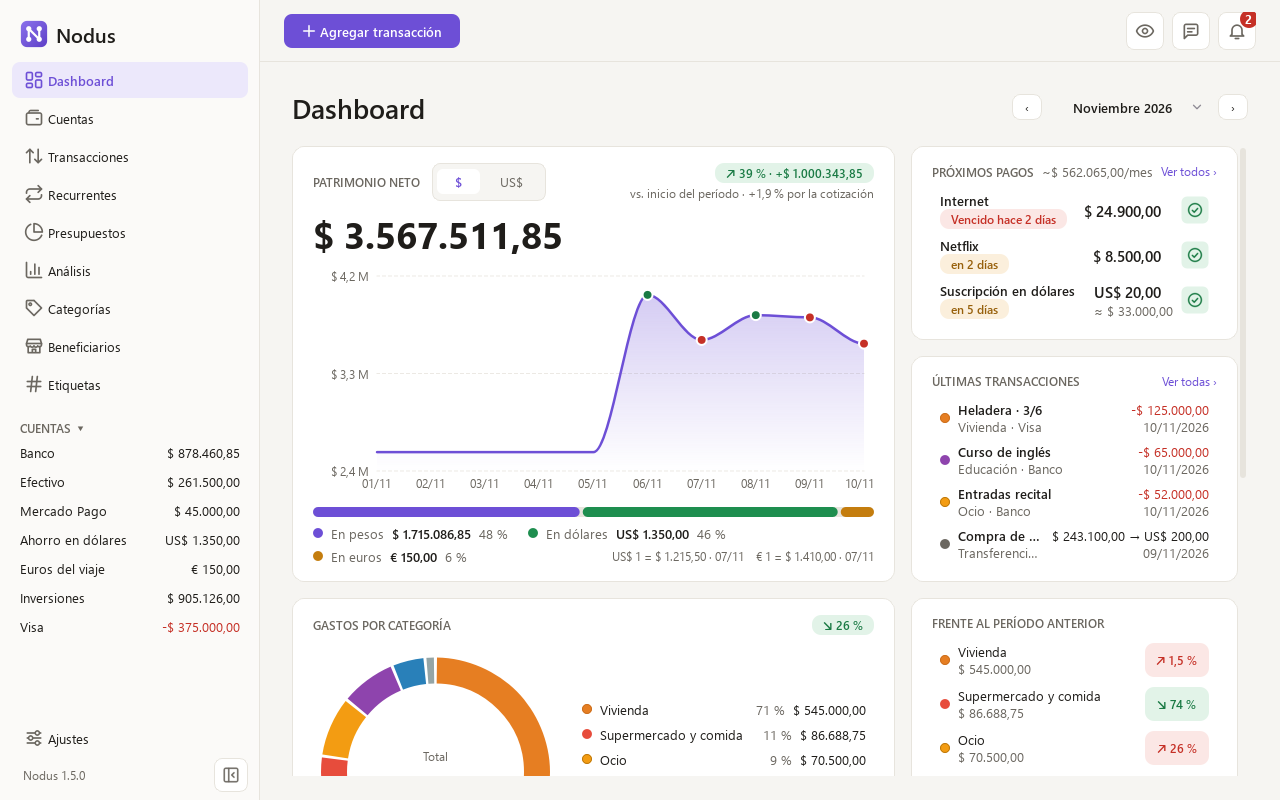
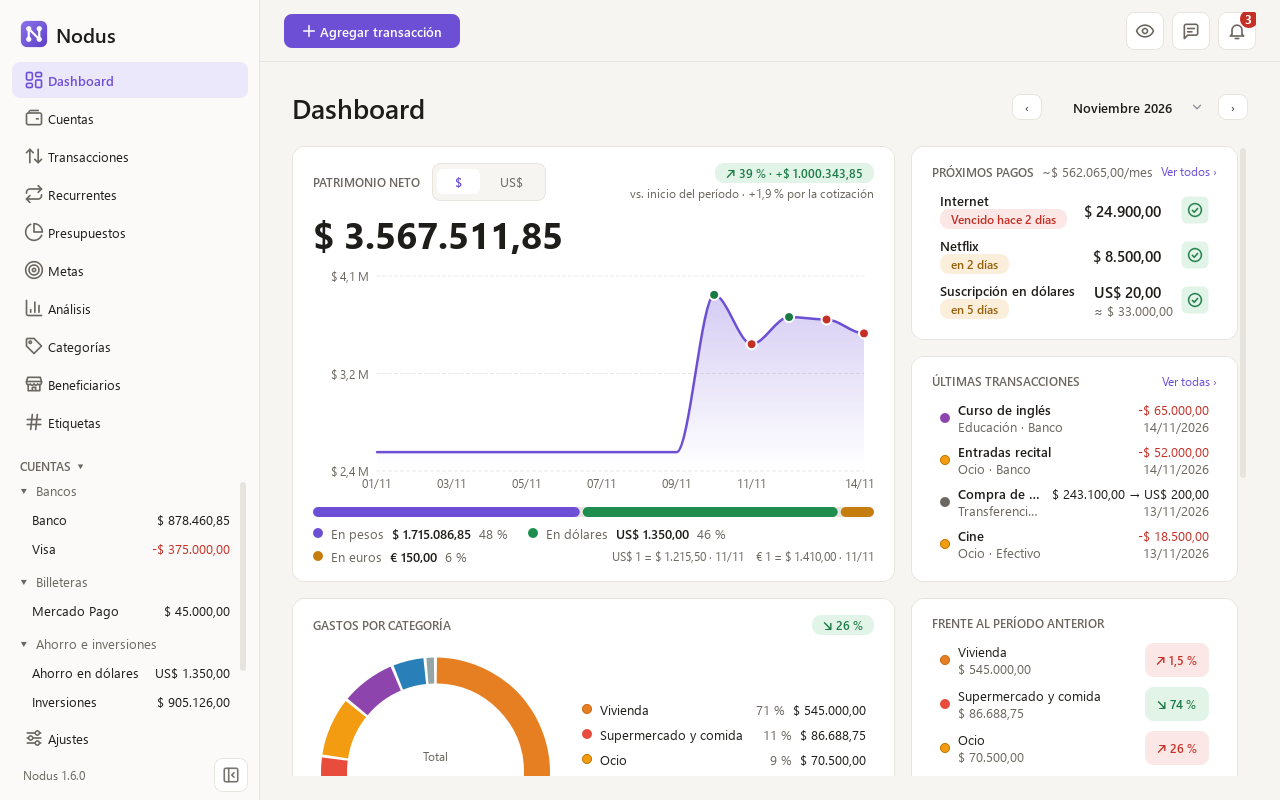
release: v1.6.0
Bumps the version to 1.6.0, dates its CHANGELOG section, moves v1.6
(savings goals, account groups, a fuller account page and the month-end
backup reminder) to what is done in both READMEs' roadmap, and renews
the README screenshots with this version.

diff --git a/src/nodus/__init__.py b/src/nodus/__init__.py
@@ -1,6 +1,6 @@
 """Nodus: local-first personal finance desktop application."""
 
-__version__ = "1.5.0"
+__version__ = "1.6.0"
 
 # How Windows tells Nodus apart from other programs on the taskbar. The running process
 # and the installer's shortcuts must carry the same one: a pinned window whose ID no

diff --git a/README.es.md b/README.es.md
@@ -138,9 +138,8 @@ Para actualizar, toca «Actualizar» cuando Nodus avise que hay una versión nue
 
 ## Hoja de ruta
 
-Nodus crece por versiones pequeñas y estables. La **v1.0**, la primera estable, incluye cuentas, transacciones, cotización del dólar, rendimiento de inversiones, dashboard, cargos recurrentes, presupuestos, beneficiarios, etiquetas, reembolsos, análisis, copias de seguridad y exportación. La **v1.1** sumó euros y pesos chilenos, billeteras virtuales, cuentas en el orden que quieras, cualquier color para categorías y etiquetas, abrir con Windows, enviar comentarios desde la aplicación y un resumen de las novedades después de cada actualización. La **v1.3** trajo actualizar con un clic, un menú en cada fila, selección de varias filas a la vez, una página para cada cuenta, beneficiario y etiqueta, y una interfaz más ordenada. La **v1.4** sumó compras en cuotas, cuánto de la variación del patrimonio se debe a la cotización, errores debajo del campo que los causa y sugerencias de beneficiario que ponen primero los que más usas. La **v1.5** hizo la interfaz más cómoda de leer: todo texto se lee sobre su fondo en los dos temas, los rótulos más chicos crecieron, las listas vacías hablan todas igual y «Reducir animaciones» deja quietos los gráficos y las cifras. Lo que viene:
+Nodus crece por versiones pequeñas y estables. La **v1.0**, la primera estable, incluye cuentas, transacciones, cotización del dólar, rendimiento de inversiones, dashboard, cargos recurrentes, presupuestos, beneficiarios, etiquetas, reembolsos, análisis, copias de seguridad y exportación. La **v1.1** sumó euros y pesos chilenos, billeteras virtuales, cuentas en el orden que quieras, cualquier color para categorías y etiquetas, abrir con Windows, enviar comentarios desde la aplicación y un resumen de las novedades después de cada actualización. La **v1.3** trajo actualizar con un clic, un menú en cada fila, selección de varias filas a la vez, una página para cada cuenta, beneficiario y etiqueta, y una interfaz más ordenada. La **v1.4** sumó compras en cuotas, cuánto de la variación del patrimonio se debe a la cotización, errores debajo del campo que los causa y sugerencias de beneficiario que ponen primero los que más usas. La **v1.5** hizo la interfaz más cómoda de leer: todo texto se lee sobre su fondo en los dos temas, los rótulos más chicos crecieron, las listas vacías hablan todas igual y «Reducir animaciones» deja quietos los gráficos y las cifras. La **v1.6** sumó metas de ahorro, grupos de cuentas que se pliegan en el panel lateral, una página más completa para cada cuenta y un recordatorio a fin de mes para guardar una copia fuera de la computadora. Lo que viene:
 
-- **v1.6 — Metas y grupos de cuentas:** ahorrar para algo concreto, agrupar bancos, inversiones y efectivo, y un recordatorio a fin de mes para guardar una copia fuera de la computadora.
 - **v1.7 — Primeros pasos:** una lista de primeros pasos, un recorrido guiado y ayuda a una tecla de distancia.
 - **Más adelante — Inversiones:** una sección propia para seguirlas.
 

diff --git a/README.md b/README.md
@@ -140,9 +140,8 @@ To update, click «Actualizar» when Nodus announces a new version: it downloads
 
 ## Roadmap
 
-Nodus grows in small, stable releases. **v1.0**, the first stable one, covers accounts, transactions, dollar exchange rates, investment returns, the dashboard, recurring charges, budgets, payees, tags, refunds, analysis, backups and export. **v1.1** added euros and Chilean pesos, virtual wallets, accounts in your own order, any color for categories and tags, opening with Windows, sending feedback from the app and a summary of what's new after each update. **v1.3** brought one-click updates, a menu on every row, choosing several rows at once, a page for each account, payee and tag, and a tidier interface. **v1.4** added purchases paid in installments, the share of net worth's change that comes from the exchange rate, errors shown under the field that causes them, and payee suggestions that put first the ones you use. **v1.5** made the interface easier on the eyes: every text reads on its background in both themes, the smallest labels grew, empty lists all speak the same way, and «Reducir animaciones» stills charts and figures. Coming next:
+Nodus grows in small, stable releases. **v1.0**, the first stable one, covers accounts, transactions, dollar exchange rates, investment returns, the dashboard, recurring charges, budgets, payees, tags, refunds, analysis, backups and export. **v1.1** added euros and Chilean pesos, virtual wallets, accounts in your own order, any color for categories and tags, opening with Windows, sending feedback from the app and a summary of what's new after each update. **v1.3** brought one-click updates, a menu on every row, choosing several rows at once, a page for each account, payee and tag, and a tidier interface. **v1.4** added purchases paid in installments, the share of net worth's change that comes from the exchange rate, errors shown under the field that causes them, and payee suggestions that put first the ones you use. **v1.5** made the interface easier on the eyes: every text reads on its background in both themes, the smallest labels grew, empty lists all speak the same way, and «Reducir animaciones» stills charts and figures. **v1.6** added savings goals, account groups that fold in the sidebar, a fuller page for each account and a month-end reminder to keep a backup off your computer. Coming next:
 
-- **v1.6 — Goals and account groups:** saving for something specific, grouping banks, investments and cash, and a month-end reminder to keep a backup off your computer.
 - **v1.7 — Getting started:** a checklist of first steps, a guided tour and help one key away.
 - **Later — Investments:** a section of its own to follow them.
 

diff --git a/CHANGELOG.md b/CHANGELOG.md
@@ -2,7 +2,7 @@
 
 Lo que trae cada versión, de la más nueva a la más vieja. Para actualizar, toca «Actualizar» cuando Nodus avise que hay una versión nueva: tus datos se conservan.
 
-## 1.6.0
+## 1.6.0 — 2026-11-14
 
 - Metas de ahorro: la nueva página «Metas» junta el saldo de tus cuentas de ahorro hacia un monto, con fecha si quieres. Eliges qué cuentas cuentan y qué parte de cada una (una misma cuenta puede repartirse entre varias metas), al marcar una cuenta el formulario propone la parte que alcanza para el objetivo, y te dice cuánto aporta cada cuenta hoy y cuánto hace falta apartar por mes antes de guardar. Cada meta muestra su barra y, en una oración, si a tu ritmo llegas a tiempo o cuánto te falta por mes para llegar. Una meta no mueve dinero: crece sola cuando pasas plata a sus cuentas. También puedes empezarla desde una cuenta de ahorro o inversión, con «Usar en una meta…».
 - Cada meta tiene su página: cuánto lleva, cuánto subió o bajó este mes, lo que falta, lo que hace falta por mes y tu ritmo, con un gráfico de lo ahorrado mes a mes frente al objetivo y lo que aporta cada cuenta. La página de una cuenta dice a qué metas aporta, así sabes que gastar de ahí les resta. Cuando una meta llega a su objetivo, la campana te avisa una vez; si después usas ese dinero, la meta sigue alcanzada.
